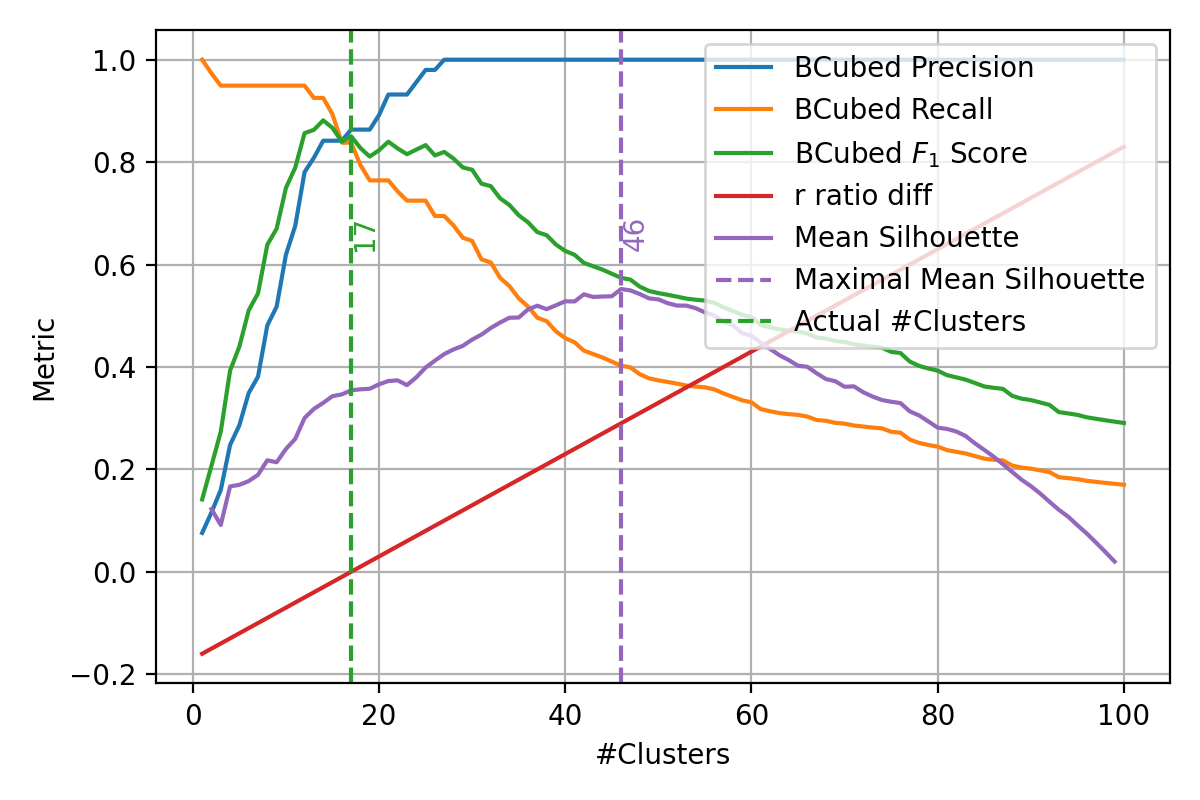
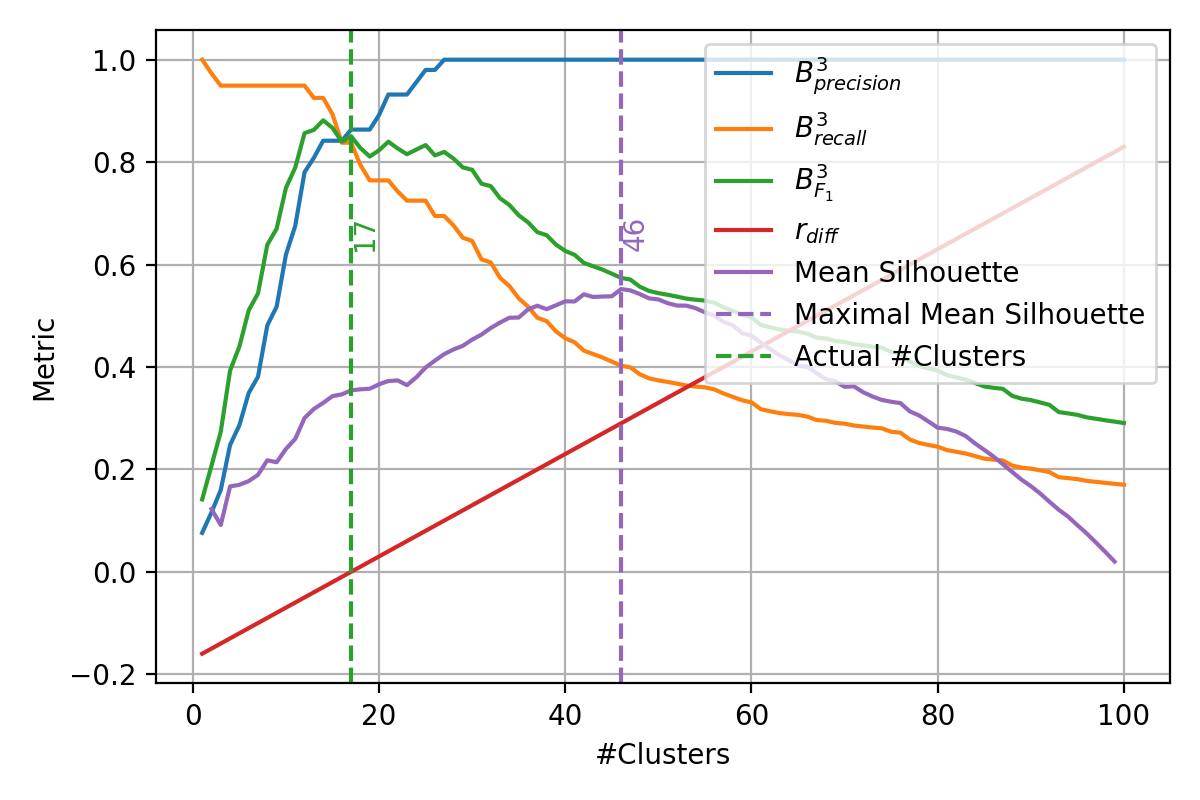
clustering report review suite

Changed region(s): [[0.5858, 0.0625, 0.9558, 0.5]]

diff --git a/report/sections/5_evaluations/5_clustering_evaluation.tex b/report/sections/5_evaluations/5_clustering_evaluation.tex
@@ -1,6 +1,6 @@
 \subsection{Clustering evaluation}
 
-\subsubsection{Hierarchical clustering parameters}
+\subsubsection{Hierarchical clustering parameters \label{sec:hierarchical_clustering}}
 
 As explained in Section~\ref{sec:authors_clustering}, the hierarchical clustering decide clusters based on a bottom-up approach and have two main parameters, the stopping procedure and the linkage criterion.
 The linkage criterion can be : single, complete, average linkage.
@@ -11,7 +11,7 @@ The custom implementation of the hierarchical clustering is used, at each mergin
 The clustering resulting in the best $B^3_{F_1}$ is kept and the $r_{diff} = 0$.
 This procedure is repeated for each linkage criteria and corpus.
 
-The results for the two scenarios are presented in Table~\ref{tab:hierarchical_clustering}.
+The results for the two scenarios are presented in Table~\ref{tab:hierarchical_clustering}, the mean of the absolute value is given for each criterion, the absolute value is to avoid having positives and negatives $r_{diff}$ cancelling.
 These results can be considered as the upper bound for the two metrics ($B^3_{F_1}$ and $r_{diff}$) for the clustering case using the retained rank list on these corpora.
 Table~\ref{tab:hierarchical_clustering_rdiff_zero} represent the upper bound if the number of cluster is known for the hierarchical clustering with the retained rank lists and Table~\ref{tab:hierarchical_clustering_best_bcubed} the upper bound in case that the $B^3_{F_1}$ want to be maximized with the hierarchical clustering on the retained rank lists.
 The best linkage criterion depends on the corpus, but in average, the best $B^3_{F_1}$ is achieved with the average linkage criterion, a relative increase of around 2.5\% compared to the other criteria.
@@ -33,9 +33,8 @@ Having a slightly greater number of cluster can produces in average a better $B^
     Brunet    & 0.81/0.00 & 0.81/0.00 & 0.79/0.00 \\
     St-Jean A & 0.85/0.00 & 0.85/0.00 & 0.85/0.00 \\
     St-Jean B & 0.96/0.00 & 0.93/0.00 & 0.97/0.00 \\
-    St-Jean   & 0.79/0.00 & 0.88/0.00 & 0.87/0.00 \\
     \midrule
-    Mean      & 0.84/0.00 & 0.88/0.00 & 0.86/0.00 \\
+    Absolute mean & 0.86/0.00 & 0.88/0.00 & 0.86/0.00 \\
     \bottomrule
   \end{tabular}
 
@@ -52,9 +51,8 @@ Having a slightly greater number of cluster can produces in average a better $B^
     Brunet    & 0.84/ 0.02 & 0.85/0.09 & 0.85/0.09 \\
     St-Jean A & 0.86/-0.01 & 0.88/0.03 & 0.88/0.04 \\
     St-Jean B & 0.98/ 0.02 & 0.98/0.02 & 0.97/0.00 \\
-    St-Jean   & 0.87/ 0.09 & 0.89/0.01 & 0.90/0.01 \\
     \midrule
-    Mean      & 0.89/0.03 & 0.91/0.02 & 0.89/0.02 \\
+    Absolute mean & 0.89/0.02 & 0.92/0.04 & 0.89/0.04 \\
     \bottomrule
   \end{tabular}
 
@@ -69,29 +67,33 @@ The best clustering according to this method is the one that yield the greatest 
 
 The rank list used for this experiment is the one generated using Z-score fusion with retained text representation (9 for St-Jean and 7 for Brunet and Oxquarry), see Section~\ref{sec:annex_retained_text_representation} in annex.
 
-The detailed $B^3_{F_1}$ and score on the unsupervised clustering is presented in Table~\ref{tab:unsupervised_clustering_0}.
+The detailed $B^3_{F_1}$ and score on the unsupervised clustering is presented in Table~\ref{tab:unsupervised_clustering_alpha}.
 An example of the best case and worse case are presented Figures~\ref{fig:unsupervised_clustering}.
 The silhouette score is indicated as each step and compared to clustering evaluation metrics.
 
-Since the rank list used for the clustering is not perfect (every true links at the top), there is no number of cluster with a BCubed $F_1$ score of 1.0.
-The estimated number of cluster is on every dataset overestimated, since the average r-ratio difference is positive value ranging between $\left[0.16, 0.20\right]$ depending on the linkage criterion, which means that the mean neareast-cluster distance is greater than the mean intra-cluster distance even when dealing with the right number of clusters.
+Since the rank lists used for the clustering are not perfect (every true links at the top), there can't be a number of cluster with a BCubed $F_1$ score of 1.0.
+The average r-ratio difference is positive value ranging between $\left[0.16, 0.20\right]$ depending on the linkage criterion which indicate that estimated number of cluster is on every dataset overestimated, which means that the mean neareast-cluster distance is greater than the mean intra-cluster distance even when dealing with the right number of clusters.
 This can be due to the fact that the rank list used for the clustering is not perfect (AP $\neq 1$).
 
 To mitigate this problem, an easy solution would be to use the labels produced by the clustering of a non-maximal value of the silhouette score on the left side of the maximal silhouette score.
-In this study, we introduce a parameter called $\alpha$. Alpha represents a percentage of value to subtract to the maximal mean silhouette score to obtain the new target (instead of the maximal value).
+In this study, we introduce a parameter called $\alpha$.
+$\alpha$ represents a percentage of value to subtract to the maximal mean silhouette score to obtain the new target (instead of the maximal value).
+The clustering with the silhouette score the closest to the target is retained.
 The sign of the alpha indicate on the side of the maximal silhouette score the target should be.
 With $\alpha = 0$, this corresponds to the maximal mean silhouette score.
 With a negative $\alpha$ the left side is targeted and with a positive $\alpha$, the right side.
-By using for example $\alpha = -0.3$, we aim to correct this overshoot.
-Table~\ref{tab:unsupervised_clustering_03} show the results with this $\alpha$.
-With this correction technique, the average $B^3_{F_1}$ can be increase by ~11\% across all the corpora.
+By using for example $\alpha = -0.2$, we aim to correct this overshoot.
+This value was choosen using a grid search to optimize the $B^3_{F_1}$.
+Table~\ref{tab:unsupervised_clustering_02} show the results with $\alpha = -0.2$.
+With this correction technique, in average the $r_{diff}$ is close to 0 and the average $B^3_{F_1}$ is increased in average by 15\% across all the corpora.
+The average linkage criterion give the best results for this clustering method, the $B^3_{F_1}$ is in average 3\% better with this technique.
 
 \begin{table}
   \centering
   \caption{Unsupervised clustering evaluation on every linkage criterion and corpus}
   \label{tab:unsupervised_clustering}
 
-  \caption{$\alpha = 0$}
+  \subcaption{Silhouette maximization ($\alpha = 0$)}
   \label{tab:unsupervised_clustering_0}
   \begin{tabular}{l c c c}
     \toprule
@@ -102,26 +104,26 @@ With this correction technique, the average $B^3_{F_1}$ can be increase by ~11\%
     Brunet    & 0.67/0.32 & 0.72/0.20 & 0.70/0.25 \\
     St-Jean A & 0.57/0.30 & 0.57/0.29 & 0.60/0.25 \\
     St-Jean B & 0.89/0.08 & 0.91/0.05 & 0.91/0.05 \\
-    St-Jean   & 0.70/0.21 & 0.74/0.15 & 0.71/0.17 \\
     \midrule
-    Mean      & 0.72/0.20 & 0.75/0.16 & 0.74/0.16 \\
+    Absolute mean & 0.73/0.20 & 0.75/0.16 & 0.75/0.16 \\
     \bottomrule
   \end{tabular}
 
-  \subcaption{$\alpha = -0.3$}
-  \label{tab:unsupervised_clustering_03}
+  \vspace{0.5cm}
+
+  \subcaption{$\alpha = -0.2$}
+  \label{tab:unsupervised_clustering_alpha}
   \begin{tabular}{l c c c}
     \toprule
            & \multicolumn{3}{c}{Linkage criterion} \\
     Corpus    & Single     & Average   & Complete \\
     \midrule
-    Oxquarry  & 0.81/0.00 & 0.93/ 0.00 & 0.84/ 0.02 \\
-    Brunet    & 0.81/0.00 & 0.79/ 0.02 & 0.79/ 0.05 \\
-    St-Jean A & 0.81/0.07 & 0.82/ 0.07 & 0.81/ 0.06 \\
-    St-Jean B & 0.83/0.05 & 0.82/-0.06 & 0.85/-0.06 \\
-    St-Jean   & 0.81/0.01 & 0.86/-0.03 & 0.84/-0.03 \\
+    Oxquarry  & 0.85/0.02 & 0.96/0.02 & 0.87/0.04 \\
+    Brunet    & 0.82/0.05 & 0.85/0.09 & 0.82/0.11 \\
+    St-Jean A & 0.77/0.13 & 0.79/0.12 & 0.74/0.12 \\
+    St-Jean B & 0.92/-0.01 & 0.89/-0.03 & 0.91/-0.03 \\
     \midrule
-    Mean      & 0.81/0.01 & 0.85/0.00 & 0.83/0.01 \\
+    Absolute mean & 0.84/0.05 & 0.87/0.07 & 0.84/0.08 \\
     \bottomrule
   \end{tabular}
 \end{table}
@@ -146,28 +148,28 @@ With this correction technique, the average $B^3_{F_1}$ can be increase by ~11\%
 
 To evaluate the semi-supervised clustering approach, every corpus were used.
 First a rank list for each corpus is computed using a z-score fusion using the retained rank list, see Section~\ref{sec:annex_retained_text_representation} in annex.
-For each rank list, the distance threshold is computed, using the two beta approach, this correspond to the training phase.
+For each rank list, the distance threshold is computed, using the two beta approach, this corresponds to the training phase.
 Then for every distance threshold and rank list pair, the clustering is evaluated using the $B^3$ family and the $r_{diff}$.
 
 The distance thresholds found for the z-score fusion rank lists for each corpus are in Table~\ref{tab:semi_supervised_clustering_thresholds}
 The complete evaluation using Oxquarry, Brunet, St-Jean A and B, is presented in Table~\ref{tab:semi_supervised_clustering_train_test}.
-The average values obtained for each metrics is presented in Table~\ref{tab:semi_supervised_clustering_average}.
+The average values obtained for each metric is presented in Table~\ref{tab:semi_supervised_clustering_average}.
 
 The following conclusions can be drawn with these results:
 \begin{itemize}
   \item
-  A rather wide range of distance threshold is found depending on the corpus. They are in the interval $\left[-0.42, -0.96\right]$ which correspond to 14\% of the interval containing every z-scores for these datasets ($\left[-4.79, 2.63\right]$).
+  A rather wide range of distance threshold is found depending on the corpus.
+  It corresponds to the interval $\left[-0.42, -0.96\right]$ which is 14\% of the interval containing every z-scores for these datasets ($\left[-4.79, 2.63\right]$).
   \item
   The average r-ratio is positive, which indicate that this method tends to overestimate the number of clusters, but is really close to find the right number of clusters.
   \item
-  The better the average precision of the rank list used, the better the $B^3_{F_1}$ score seem to be, when using this method, with the exception of the Oxquarry corpus which have better average precision then Brunet but a lower $B^3_{F_1}$ score in average when testing with these corpora.
+  The better the average precision of the rank list used is, the better the $B^3_{F_1}$ score seem to be when clustering for this method.
+  With an exception for Oxquarry corpus which have better average precision then Brunet (0.84, 0.76) but a lower $B^3_{F_1}$ score in average (0.82 / 0.83) when testing with these corpora.
   \item
   The distance threshold use only have a slight impact when comparing the average $B^3_{F_1}$ score across the corpus.
-  The St-Jean A corpus give the best $B^3_{F_1}$ and regarding the number of clusters Oxquarry seem to be the best corpus for the training.
+  The St-Jean A corpus give the best $B^3_{F_1}$ (0.88) and regarding the number of clusters Oxquarry (0.02) seem to be the best corpus for the training.
+  This possible difference was already observed in Section~\ref{sec:hierarchical_clustering}, having a slightly greater $r_{diff}$ tends to produce a better $B^3_{F_1}$ score.
 \end{itemize}
-
-The semi-supervised cut method tends to produce better results in average than the unsupervised proposed method.
-An increase of +8\% in $B^3_{F_1}$ can be obtained when using the supervised clustering model proposed over the unsupervised tweaked clustering model (IPS stop procedure at 0.1) and +15\% over the IPS stop procedure at 0.
 
 \begin{table}
   \centering
@@ -228,7 +230,7 @@ An increase of +8\% in $B^3_{F_1}$ can be obtained when using the supervised clu
 
   \vspace{0.5cm}
 
-  \subcaption{Metrics averages}
+  \subcaption{Metrics absolute mean}
   \label{tab:semi_supervised_clustering_average}
   \begin{tabular}{l c c c c}
     \toprule
@@ -237,15 +239,15 @@ An increase of +8\% in $B^3_{F_1}$ can be obtained when using the supervised clu
     & $B^{3}_{recall}$
     & $r_{diff}$ \\
     \midrule
-    Testing on Oxquarry               & 0.82 & 1.00 & 0.69 &  0.08 \\
-    Testing on Brunet                 & 0.83 & 0.91 & 0.76 &  0.09 \\
-    Testing on St-Jean A              & 0.86 & 0.88 & 0.85 &  0.00 \\
-    Testing on St-Jean B              & 0.93 & 0.92 & 0.94 & -0.00 \\
-    Distance threshold from Oxquarry  & 0.85 & 0.89 & 0.83 & 0.02 \\
-    Distance threshold from Brunet    & 0.86 & 0.90 & 0.83 & 0.03 \\
+    Testing on Oxquarry               & 0.82 & 1.00 & 0.69 & 0.08 \\
+    Testing on Brunet                 & 0.83 & 0.91 & 0.76 & 0.09 \\
+    Testing on St-Jean A              & 0.86 & 0.88 & 0.85 & 0.02 \\
+    Testing on St-Jean B              & 0.93 & 0.92 & 0.94 & 0.02 \\
+    Distance threshold from Oxquarry  & 0.85 & 0.89 & 0.83 & 0.05 \\
+    Distance threshold from Brunet    & 0.86 & 0.90 & 0.83 & 0.04 \\
     Distance threshold from St-Jean A & 0.88 & 0.94 & 0.83 & 0.04 \\
     Distance threshold from St-Jean B & 0.85 & 0.98 & 0.75 & 0.08 \\
-    \textbf{Global average} & \textbf{0.86} & \textbf{0.93} & \textbf{0.81} & \textbf{0.04} \\
+    \textbf{Global absolute mean} & \textbf{0.86} & \textbf{0.93} & \textbf{0.81} & \textbf{0.05} \\
     \bottomrule
   \end{tabular}
 \end{table*}
@@ -258,7 +260,7 @@ Then every pair of rank list is used to create a training/testing evaluation.
 In other words, a model to create cuts is trained on every dataset and tested on all the datasets.
 
 The model does not depend on the rank list size since only relative magnitudes are used.
-The BCubed $F_1$ metrics and the r ratio difference are computed during this experiment and are in presented in Table~\ref{tab:supervised_clustering_train_test}, for every pairs of dataset.
+The BCubed metrics and the r ratio difference are computed during this experiment and are in presented in Table~\ref{tab:supervised_clustering_train_test}, for every pairs of dataset.
 The average values obtained for each metrics is presented in Table~\ref{tab:supervised_clustering_average}.
 
 Two conclusion can be drawn with these results:
@@ -271,13 +273,11 @@ Two conclusion can be drawn with these results:
   Using the best rank list for training the cut model does not always give the best results.
   An example to illustrate this observation, the St-Jean B dataset have the best rank list with an average precision of 0.96, but the best rank list for training the clustering model is Oxquarry with an average $r_{diff}$ of 0.02 and an average $B^3_{F_1}$ of 0.87.
   In the other hand, St-Jean B have an average $r_{diff}$ of 0.09 and an average $B^3_{F_1}$ of 0.83.
-  The Oxquarry rank list seem to be the best dataset to train the model to perform the cut and Brunet the least effective.
+  With the corpora used, the Oxquarry rank list seem to be the best corpus to train this type of model and Brunet the least effective.
 \end{itemize}
 
 The conclusion to the two previous points is that having a good rank list is more important for testing than training.
 No clear rank lists property was found which makes some of them better to train the model.
-The supervised cut method tends to produce better results in average than the unsupervised proposed method.
-An increase of +8\% in $B^3_{F_1}$ can be obtained when using the supervised clustering model proposed over the unsupervised tweaked clustering model (IPS stop procedure at 0.1) and +14\% over the IPS stop procedure at 0.
 
 \begin{table*}
   \centering
@@ -294,27 +294,27 @@ An increase of +8\% in $B^3_{F_1}$ can be obtained when using the supervised clu
     \parbox[t]{2mm}{\multirow{4}{*}{\rotatebox[origin=c]{90}{Training}}}
     & Oxquarry
     & 0.82/1.00/0.70/0.08
-    & 0.86/0.91/0.82/0.07
-    & 0.88/0.84/0.93/-0.03
-    & 0.92/0.88/0.98/-0.02
+    & 0.82/0.88/0.77/0.07
+    & 0.87/0.84/0.89/-0.02
+    & 0.95/0.92/0.98/-0.01
     \\
     & Brunet
     & 0.80/1.00/0.67/0.10
     & 0.75/0.94/0.62/0.18
-    & 0.81/0.98/0.69/0.09
+    & 0.82/0.96/0.72/0.07
     & 0.91/1.00/0.83/0.05
     \\
     & St-Jean A
     & 0.80/1.00/0.67/0.10
     & 0.82/0.94/0.73/0.11
-    & 0.87/0.93/0.81/0.03
-    & 0.97/1.00/0.94/0.02
+    & 0.84/0.93/0.76/0.04
+    & 0.95/1.00/0.91/0.03
     \\
     & St-Jean B
     & 0.80/1.00/0.67/0.10
     & 0.76/0.94/0.64/0.16
-    & 0.82/0.96/0.72/0.07
-    & 0.93/1.00/0.87/0.04
+    & 0.83/0.93/0.74/0.05
+    & 0.95/1.00/0.91/0.03
     \\
     \bottomrule
   \end{tabular}
@@ -331,14 +331,45 @@ An increase of +8\% in $B^3_{F_1}$ can be obtained when using the supervised clu
     & $r_{diff}$ \\
     \midrule
     Testing on Oxquarry     & 0.81 & 1.00 & 0.68 & 0.09 \\
-    Testing on Brunet       & 0.80 & 0.93 & 0.70 & 0.13 \\
-    Testing on St-Jean A    & 0.85 & 0.93 & 0.79 & 0.04 \\
-    Testing on St-Jean B    & 0.93 & 0.97 & 0.91 & 0.02 \\
-    Training on Oxquarry    & 0.87 & 0.91 & 0.86 & 0.02 \\
-    Training on Brunet      & 0.82 & 0.98 & 0.71 & 0.10 \\
-    Training on St-Jean A   & 0.86 & 0.97 & 0.79 & 0.06 \\
-    Training on St-Jean B   & 0.83 & 0.97 & 0.73 & 0.09 \\
-    \textbf{Global average} & \textbf{0.85} & \textbf{0.96} & \textbf{0.77} & \textbf{0.07} \\
+    Testing on Brunet       & 0.79 & 0.92 & 0.69 & 0.13 \\
+    Testing on St-Jean A    & 0.85 & 0.92 & 0.78 & 0.04 \\
+    Testing on St-Jean B    & 0.94 & 0.98 & 0.91 & 0.03 \\
+    Training on Oxquarry    & 0.86 & 0.91 & 0.84 & 0.04 \\
+    Training on Brunet      & 0.82 & 0.97 & 0.71 & 0.10 \\
+    Training on St-Jean A   & 0.85 & 0.97 & 0.77 & 0.07 \\
+    Training on St-Jean B   & 0.84 & 0.97 & 0.74 & 0.08 \\
+    \textbf{Global absolute mean} & \textbf{0.84} & \textbf{0.95} & \textbf{0.76} & \textbf{0.07} \\
     \bottomrule
   \end{tabular}
 \end{table*}
+
+\subsubsection{Clustering evaluation summary}
+
+Table~\ref{tab:clustering_evaluation_summary} contains a summary of the proposed method to evaluate using the $B^3_{F_1}$ score and the $r_{diff}$.
+As observed previously, having an $r_{diff}$ slightly larger than 0, produce better a $B^3_{F_1}$ as shown with the two upper bounds.
+Each method produces similar results, but the unsupervised tweak method give the best results.
+When compared to the tweaked unsupervised method, the semi-supervised and supervised methods produce slightly worse results.
+The non-tweak unsupervised model give the worse results.
+If the upper bound, best $B^3_{F_1}$ is considered the best possible clustering for these ranks lists.
+The clustering models can be evaluated in terms of $B^3_{F_1}$ completion to the best $B^3_{F_1}$ upper bound (completion: $\frac{model score}{upper bound score}$).
+This completion value should reflect the model clustering with a hypothetical perfect rank list, since the upper bound for a perfect rank list should be 1.00.
+The unsupervised have a 0.82 $B^3_{F_1}$ completion, the unsupervised tweaked 0.95, the semi-supervised 0.93 and the supervised 0.91.
+
+\begin{table}
+  \centering
+  \caption{Absolute mean performances of the proposed clustering methods}
+  \label{tab:clustering_evaluation_summary}
+  \begin{tabular}{l c c}
+    \toprule
+    Clustering method              & $B^3_{F_1}$ & $r_{diff}$ \\
+    \midrule
+    Unsupervised ($\alpha = 0$)    & 0.75 & 0.16 \\
+    Unsupervised ($\alpha = -0.2$) & \textbf{0.87} & 0.07 \\
+    Semi-Supervised                & 0.86 & \textbf{0.05} \\
+    Supervised                     & 0.84 & 0.07 \\
+    \midrule
+    \textit{Upper bound (Best $r_{diff}$)}  & \textit{0.88} & \textit{0.00} \\
+    \textit{Upper bound (Best $B^3_{F_1}$)} & \textit{0.92} & \textit{0.04} \\
+    \bottomrule
+  \end{tabular}
+\end{table}

diff --git a/report/sections/5_evaluations/6_results_analysis.tex b/report/sections/5_evaluations/6_results_analysis.tex
@@ -16,9 +16,9 @@ The diagonal is the lightest colour (white), since the distance between two same
 
 The distance matrix for the best retained representation (the highest average precision) and the worse retained text representation (the lowest average precision) is visually presented in Figure~\ref{fig:distances_matrix_oxquarry} for Oxquarry.
 Respectively the Clark distance on the $750$-MFW which gives an average precision of $0.89$, and the Tanimito distance on the $750$-MFW gives an $0.63$ average precision.
-The diagonal is white in both images, a light colour square in the diagonal can clearly be observed on both distance matrix visualizations, even thought some are slightly tainted.
+The diagonal is white in both images and light colour square in the diagonal can clearly be observed on both distance matrix visualizations, even thought some are slightly tainted.
 Clark has overall a good distances matrix, except some document pairs from Conrad, Hardy and Orczy which have darker colours, these are ranked below some false links in the rank list.
-For Tanimoto, firstly one can observe these stripes, which are due to the max function in its computation, which create more cleaved decision in the score value.
+For Tanimoto, firstly one can observe these stripes, which are due to the max function in its computation, which create a more cleaved decision in the score value.
 The main suspects for this observation is probably due to some high frequency term only used in some excerpts, thus when normalizing by the sum of maxima in the Tanimoto computation, document with these high relative frequency create these stripes.
 
 \begin{figure}
@@ -36,35 +36,35 @@ The main suspects for this observation is probably due to some high frequency te
   \includegraphics{img/distance_matrix_oxquarry_tanimoto.png}
 \end{figure}
 
-\subsubsection{Frequent errors}
+\subsubsection{Frequent errors with the MFW methods}
 \label{sec:frequent_errors}
 
 For this experiment, the goal is to try to understand the errors in the system, in this case the false links (document pairs with different authors) highly ranked on different rank lists.
 The rank list quality is high based on the text representation and the distance function, but mostly on the first.
 The previous statement can be deduced by the following reasoning : For example when using the $n$-MFW method, if two documents feature vector are closely related (nearly identical), no matter the distance function they should have a low distance, since every distance function should give a distance of 0 when computing the distance between two identical vectors.
 We believe some errors in the system are due to documents having close feature vectors values even though they are not from the same authors.
-To motivate this statement the following experiment is realized.
+To motivate this statement, the following experiment is realized.
 
-The 4 token-based retained rank list from the St-Jean corpus are used, see Table~\ref{tab:9rl_results_st_jean_A_B} in annex.
-These 4 rank lists are using the same text representation, in this case the relative frequency of the $750$-MFW tokens as feature vector, only the distance function used to create the rank list is different.
+The four token-based retained rank list from the St-Jean corpus are used, see Table~\ref{tab:9rl_results_st_jean_A_B} in annex.
+These four rank lists are using the same text representation, in this case the relative frequency of the $750$-MFW tokens as feature vector, only the distance function used to create the rank list is different.
+For this experiment we define frequent errors as : \textit{Links often appearing in the top 20 false links for all four rank lists (for example in the top 20 false link of 3 out of the 4 rank lists)}.
 The goal is to compare the feature vector of the two documents for some specific link, in our case the following were chosen : Frequent errors, ranked first in a rank list (most similar vectors, according to the distance function), ranked last in a rank list (the least similar vectors) and Ranked HPrec-th in a rank list.
-Links often appearing in the top 20 false links in all 4 rank lists are considered as frequent errors.
 The rank list used for the comparison is the one with the best average precision, in this case the one using Manhattan distance, with an average precision of 0.78.
 To perform a comparison, a visualization of the feature vector is done using a bar plot.
 In this case, the visualization is based on the $750$-MFW tokens representation, since the rank lists were created using this vector size.
 To be able to understand more easily this vector, the values have been sorted by the mean relative frequencies and use a logarithmic scale.
-When a large proportion of the vectors overlap it indicates a high similarity between the MFW vectors.
+When a large proportion of the vectors overlap, it indicates a high similarity between the MFW vectors.
 Both document style are close when their feature vector are closely related.
-Visually when most of the surface overlap, the distance function will give a low value, and with a correct distance measure should be ranked high in the list.
+Visually when most of the surface overlap, the distance function will give a low value, and with a correct distance measure this link should be ranked high in the rank list.
 
 Figures~\ref{fig:mfw_vector_error} show the feature vector of two frequent errors document pairs (document 48 from Vigny / document 62 from Dumas and document 10 from Maupassant / document 52 from Flaubert), these link appear in the top 20 false links of 3 out 4 rank lists.
-The frequent errors vector pairs presented in Figure~\ref{fig:mfw_vector_error} can be visually compared actual true links and actual false links, to have a better understanding of this problematic.
-For example the most similar true link (ranked 1 using Manhattan distance) in Figure~\ref{fig:mfw_vector_first_rl} (documents 30 and 116 from Sand) or the HPrec-th (last continuous correct pair from the top of the list) in Figure~\ref{fig:mfw_vector_first_last_rl} (documents 184 and 192 from Barbey), both of these links show a large proportion of overlapping surface, like for the frequent errors vectors.
+The frequent errors vector pairs presented in Figure~\ref{fig:mfw_vector_error} can be visually compared to actual true links and actual false links, to have a better understanding of this problematic.
+For example, the most similar true link (ranked 1 using Manhattan distance) in Figure~\ref{fig:mfw_vector_first_rl} (documents 30 and 116 from Sand) or the HPrec-th (last continuous correct pair from the top of the list) in Figure~\ref{fig:mfw_vector_first_last_rl} (documents 184 and 192 from Barbey), both of these links show a large proportion of overlapping surface, like for the frequent errors vectors.
 A counter example would be the least similar false link (ranked last using Manhattan distance) which represent a negatively correlated document pair, Figure~\ref{fig:mfw_vector_last_rl} showcase this link (document 183 from Stael / document 194 from Regnier).
 As expected, most of this figure surface is non-overlapping.
 
 When two vectors are relatively close together, determining that two texts are from a different author can not clearly be established using only one type of representation, no matter the distance metric applied.
-Thus, this experiment showcase the need of having multiple text representation to obtain more robust solutions.
+Thus, this experiment motivate the need of having multiple text representation to obtain more robust solutions to be able to discriminate between true and false links for these frequent errors.
 
 \begin{figure}
   \centering
